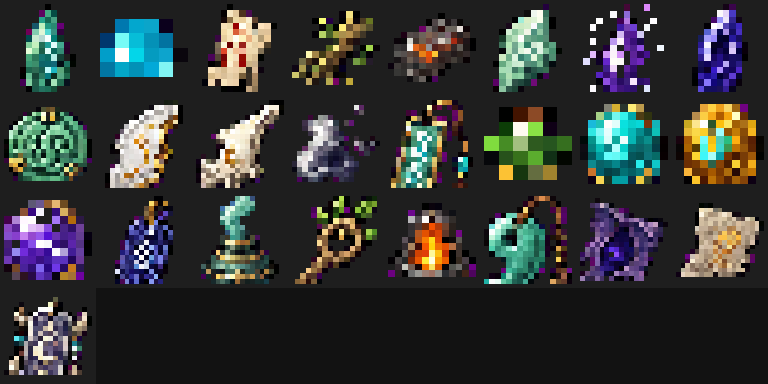
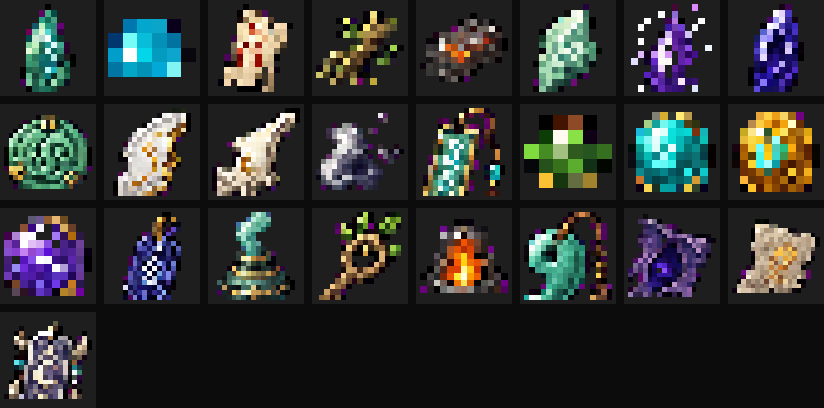
Repair split final art assets

diff --git a/Tools/postprocess_art_assets.py b/Tools/postprocess_art_assets.py
@@ -157,11 +157,124 @@ def custom_cell_box(sheet: Image.Image, row: AssetRow) -> tuple[int, int, int, i
     return None
 
 
+def component_boxes(image: Image.Image, min_pixels: int = 8) -> list[tuple[int, int, int, int]]:
+    alpha = image.getchannel("A")
+    width, height = image.size
+    pixels = alpha.load()
+    seen = bytearray(width * height)
+    boxes: list[tuple[int, int, int, int]] = []
+
+    for y in range(height):
+        for x in range(width):
+            offset = y * width + x
+            if seen[offset] or pixels[x, y] == 0:
+                continue
+
+            stack = [(x, y)]
+            seen[offset] = 1
+            count = 0
+            min_x = max_x = x
+            min_y = max_y = y
+
+            while stack:
+                cx, cy = stack.pop()
+                count += 1
+                min_x = min(min_x, cx)
+                max_x = max(max_x, cx)
+                min_y = min(min_y, cy)
+                max_y = max(max_y, cy)
+
+                for ny in range(max(0, cy - 1), min(height, cy + 2)):
+                    for nx in range(max(0, cx - 1), min(width, cx + 2)):
+                        n_offset = ny * width + nx
+                        if not seen[n_offset] and pixels[nx, ny] != 0:
+                            seen[n_offset] = 1
+                            stack.append((nx, ny))
+
+            if count >= min_pixels:
+                boxes.append((min_x, min_y, max_x + 1, max_y + 1))
+
+    return boxes
+
+
+def expanded(box: tuple[int, int, int, int], amount: int, width: int, height: int) -> tuple[int, int, int, int]:
+    left, top, right, bottom = box
+    return (
+        max(0, left - amount),
+        max(0, top - amount),
+        min(width, right + amount),
+        min(height, bottom + amount),
+    )
+
+
+def center(box: tuple[int, int, int, int]) -> tuple[float, float]:
+    left, top, right, bottom = box
+    return ((left + right) / 2, (top + bottom) / 2)
+
+
+def contains(box: tuple[int, int, int, int], point: tuple[float, float]) -> bool:
+    left, top, right, bottom = box
+    x, y = point
+    return left <= x < right and top <= y < bottom
+
+
+def smart_cell_box(
+    sheet: Image.Image,
+    row: AssetRow,
+    sheet_rows: list[AssetRow],
+    components: list[tuple[int, int, int, int]],
+) -> tuple[int, int, int, int]:
+    base = cell_box(sheet, row)
+    smart_assets = {
+        "moonbone_immortal",
+        "old_heaven_dao_core",
+        "greenwood_array_field",
+        "thunder_talisman_array",
+        "decree_judgement_beam",
+        "formless_sword_wheel_proj",
+        "star_eclipse_split_bolt",
+    }
+    if row.output_type in {"tile", "wall", "ui"} or row.asset_id not in smart_assets:
+        return base
+
+    base_w = base[2] - base[0]
+    base_h = base[3] - base[1]
+    search = expanded(base, max(24, round(max(base_w, base_h) * 0.18)), sheet.width, sheet.height)
+    row_centers = [(candidate, center(cell_box(sheet, candidate))) for candidate in sheet_rows]
+
+    owned: list[tuple[int, int, int, int]] = []
+    for comp in components:
+        comp_center = center(comp)
+        if not contains(search, comp_center):
+            continue
+
+        nearest, _ = min(
+            row_centers,
+            key=lambda item: (comp_center[0] - item[1][0]) ** 2 + (comp_center[1] - item[1][1]) ** 2,
+        )
+        if nearest == row:
+            owned.append(comp)
+
+    if not owned:
+        return base
+
+    left = min(box[0] for box in owned)
+    top = min(box[1] for box in owned)
+    right = max(box[2] for box in owned)
+    bottom = max(box[3] for box in owned)
+    return expanded((left, top, right, bottom), 8, sheet.width, sheet.height)
+
+
 def process(manifest: Path, generated_dir: Path, final_dir: Path) -> dict[str, int]:
     rows = load_manifest(manifest)
     final_dir.mkdir(parents=True, exist_ok=True)
     stats = {"processed": 0, "missing_sheets": 0}
     sheet_cache: dict[str, Image.Image] = {}
+    rows_by_sheet: dict[str, list[AssetRow]] = {}
+    components_by_sheet: dict[str, list[tuple[int, int, int, int]]] = {}
+    for row in rows:
+        rows_by_sheet.setdefault(row.sheet, []).append(row)
+
     for row in rows:
         sheet_path = generated_dir / row.sheet
         if not sheet_path.exists():
@@ -171,7 +284,9 @@ def process(manifest: Path, generated_dir: Path, final_dir: Path) -> dict[str, i
             with Image.open(sheet_path) as raw:
                 sheet_cache[row.sheet] = remove_chroma_key(raw)
         rgba = sheet_cache[row.sheet]
-        crop = rgba.crop(cell_box(rgba, row))
+        if row.sheet not in components_by_sheet:
+            components_by_sheet[row.sheet] = component_boxes(rgba)
+        crop = rgba.crop(smart_cell_box(rgba, row, rows_by_sheet[row.sheet], components_by_sheet[row.sheet]))
         if row.asset_id in {"spiritual_energy_bar_frame", "spiritual_energy_bar_fill", "tribulation_warning_line"}:
             final = stretch_canvas(crop, (row.width, row.height))
         else:

diff --git a/Tools/repair_split_sheet_assets.py b/Tools/repair_split_sheet_assets.py
@@ -1,0 +1,84 @@
+from __future__ import annotations
+
+import csv
+from pathlib import Path
+
+from PIL import Image
+
+import postprocess_art_assets as art
+
+
+ROOT = Path(__file__).resolve().parents[1]
+MANIFEST = ROOT / "Assets/Specs/art_asset_manifest.csv"
+GENERATED = ROOT / "Assets/Generated/BatchSheets"
+FINAL = ROOT / "Assets/Final"
+
+TARGETS = {
+    ("moonbone_immortal", "body"),
+    ("moonbone_immortal", "boss_head"),
+    ("old_heaven_dao_core", "body"),
+    ("old_heaven_dao_core", "boss_head"),
+    ("formless_sword_wheel_proj", "projectile"),
+    ("greenwood_array_field", "projectile"),
+    ("thunder_talisman_array", "projectile"),
+    ("decree_judgement_beam", "projectile"),
+    ("star_eclipse_split_bolt", "projectile"),
+}
+
+
+def rows() -> list[art.AssetRow]:
+    parsed: list[art.AssetRow] = []
+    with MANIFEST.open(encoding="utf-8-sig", newline="") as f:
+        for item in csv.DictReader(f):
+            parsed.append(
+                art.AssetRow(
+                    sheet=item["sheet"],
+                    asset_id=item["asset_id"],
+                    output_type=item["output_type"],
+                    col=int(item["col"]),
+                    row=int(item["row"]),
+                    cols=int(item["cols"]),
+                    rows=int(item["rows"]),
+                    width=int(item["width"]),
+                    height=int(item["height"]),
+                )
+            )
+    return parsed
+
+
+def main() -> None:
+    all_rows = rows()
+    rows_by_sheet: dict[str, list[art.AssetRow]] = {}
+    for row in all_rows:
+        rows_by_sheet.setdefault(row.sheet, []).append(row)
+
+    repaired: list[str] = []
+    sheet_cache: dict[str, Image.Image] = {}
+    component_cache: dict[str, list[tuple[int, int, int, int]]] = {}
+    try:
+        for row in all_rows:
+            if (row.asset_id, row.output_type) not in TARGETS:
+                continue
+
+            if row.sheet not in sheet_cache:
+                with Image.open(GENERATED / row.sheet) as raw:
+                    sheet_cache[row.sheet] = art.remove_chroma_key(raw)
+                component_cache[row.sheet] = art.component_boxes(sheet_cache[row.sheet])
+
+            sheet = sheet_cache[row.sheet]
+            crop_box = art.smart_cell_box(sheet, row, rows_by_sheet[row.sheet], component_cache[row.sheet])
+            crop = sheet.crop(crop_box)
+            final = art.fit_canvas(crop, (row.width, row.height), reserved_padding=8)
+            out = FINAL / row.asset_id / f"{row.asset_id}__{row.output_type}__v01.png"
+            out.parent.mkdir(parents=True, exist_ok=True)
+            final.save(out)
+            repaired.append(str(out.relative_to(ROOT)))
+    finally:
+        for sheet in sheet_cache.values():
+            sheet.close()
+
+    print({"repaired": len(repaired), "files": repaired})
+
+
+if __name__ == "__main__":
+    main()

diff --git a/Tools/create_art_previews.py b/Tools/create_art_previews.py
@@ -33,10 +33,11 @@ def make_category_sheets(manifest: Path, final_dir: Path, out_dir: Path) -> None
         cols = 8
         thumb = 96
         rows = (len(files) + cols - 1) // cols
-        sheet = Image.new("RGBA", (cols * thumb, rows * thumb), (18, 18, 18, 255))
+        gap = 8
+        sheet = Image.new("RGBA", (cols * thumb + (cols - 1) * gap, rows * thumb + (rows - 1) * gap), (12, 12, 12, 255))
         for i, path in enumerate(files):
             tile = fit_thumb(Image.open(path), thumb)
-            sheet.alpha_composite(tile, ((i % cols) * thumb, (i // cols) * thumb))
+            sheet.alpha_composite(tile, ((i % cols) * (thumb + gap), (i // cols) * (thumb + gap)))
         sheet.save(out_dir / f"{group}_contact_sheet_v01.png")
 
 
@@ -57,11 +58,12 @@ def make_all_contact_sheet(manifest: Path, final_dir: Path, out_path: Path) -> N
     cols = 8
     thumb = 96
     rows = (len(files) + cols - 1) // cols
-    sheet = Image.new("RGBA", (cols * thumb, rows * thumb), (24, 24, 24, 255))
+    gap = 8
+    sheet = Image.new("RGBA", (cols * thumb + (cols - 1) * gap, rows * thumb + (rows - 1) * gap), (12, 12, 12, 255))
     for i, path in enumerate(files):
         with Image.open(path) as img:
             tile = fit_thumb(img, thumb)
-        sheet.alpha_composite(tile, ((i % cols) * thumb, (i // cols) * thumb))
+        sheet.alpha_composite(tile, ((i % cols) * (thumb + gap), (i // cols) * (thumb + gap)))
     out_path.parent.mkdir(parents=True, exist_ok=True)
     sheet.save(out_path)
 

diff --git a/Tools/update_wiki_art_links.py b/Tools/update_wiki_art_links.py
@@ -252,6 +252,7 @@ def write_audit(data: list[dict[str, str]]) -> None:
         "- 已修复：总览 contact sheet 由 `Tools/create_art_previews.py` 按 manifest 顺序重建，避免替换素材后总览图滞后。",
         "- 已修复：非 Tile/Wall/UI 的独立精灵已通过 `Tools/repair_asset_safe_margins.py` 统一补足安全透明边距，降低游戏缩放和 Wiki 预览中的截断风险。",
         "- 已修复：`old_heaven_dao_core`、`woodgrain_flying_sword` 等点名素材已同步刷新到 `Assets/Final`、`Content`、总览图与 Wiki 页面。",
+        "- 已修复：`Tools/repair_split_sheet_assets.py` 对跨格碎片素材执行定向重裁，避免素材局部被切到相邻格；总览图已加入格间距便于检查。",
         "",
         "## 语义一致性检查",
         "",

diff --git a/Wiki/Art_Audit.md b/Wiki/Art_Audit.md
@@ -14,6 +14,7 @@
 - 已修复：总览 contact sheet 由 `Tools/create_art_previews.py` 按 manifest 顺序重建，避免替换素材后总览图滞后。
 - 已修复：非 Tile/Wall/UI 的独立精灵已通过 `Tools/repair_asset_safe_margins.py` 统一补足安全透明边距，降低游戏缩放和 Wiki 预览中的截断风险。
 - 已修复：`old_heaven_dao_core`、`woodgrain_flying_sword` 等点名素材已同步刷新到 `Assets/Final`、`Content`、总览图与 Wiki 页面。
+- 已修复：`Tools/repair_split_sheet_assets.py` 对跨格碎片素材执行定向重裁，避免素材局部被切到相邻格；总览图已加入格间距便于检查。
 
 ## 语义一致性检查
 
